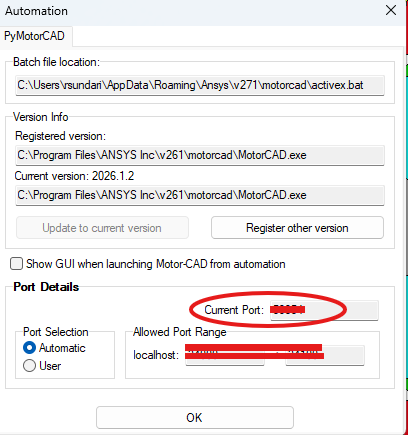
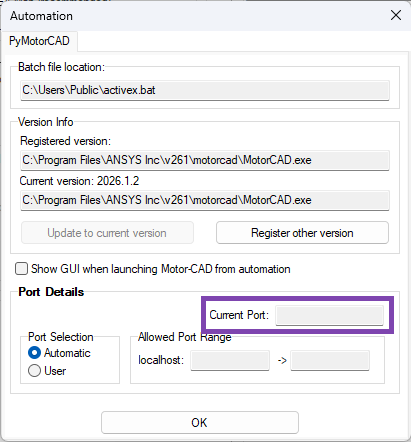
Move port issue details to a new section in 'troubleshooting' update image.

Changed region(s): [[0.0, 0.0, 1.0, 1.0], [0.0882, 0.508, 0.4118, 0.5379], [0.5, 0.508, 0.5294, 0.5379]]

diff --git a/doc/source/user_guide/troubleshooting.rst b/doc/source/user_guide/troubleshooting.rst
@@ -64,6 +64,106 @@ Check the registration form to see which version is registered.
 .. image:: /_static/troubleshooting_automation_dropdown.png
     :width: 600
 
+
+Port connection issues
+----------------------
+
+When using Python scripts in Motor-CAD either as standalone applications or as part of an adaptive
+template, you may encounter a connection error:
+
+.. code-block:: text
+
+    Failed to connect to Motor-CAD instance: port=<port number>
+
+.. image:: /_static/issue.png
+    :width: 400
+This issue typically arises due to organizational IT security settings that prevent the RPC (Remote
+Procedure Call) client from connecting to the Motor-CAD instance.
+
+Below are several troubleshooting measures you can apply to resolve this issue.
+
+Solution 1: Configure RPC client settings
+~~~~~~~~~~~~~~~~~~~~~~~~~~~~~~~~~~~~~~~~~
+
+Add the following import statements and configuration at the beginning of your Python script:
+
+.. code:: python
+
+    from ansys.motorcad.core.rpc_client_core import TRY_RESOLVE_LOCALHOST, SERVER_IP
+
+    TRY_RESOLVE_LOCALHOST = False
+    SERVER_IP = "http://127.0.0.1"
+
+This disables localhost resolution attempts and explicitly sets the server connection to the local machine,
+which can help bypass certain network security restrictions.
+
+
+Solution 2: Run Motor-CAD as Administrator
+~~~~~~~~~~~~~~~~~~~~~~~~~~~~~~~~~~~~~~~~~~
+
+Motor-CAD may require elevated privileges to establish the RPC connection:
+
+1. Locate the Motor-CAD executable file
+2. Right-click on the executable
+3. Select "Run as administrator"
+
+
+This grants Motor-CAD the necessary permissions to communicate with the Python script.
+
+
+Solution 3: Disable Automatic Proxy Setup
+~~~~~~~~~~~~~~~~~~~~~~~~~~~~~~~~~~~~~~~~~
+
+Proxy settings configured at the system level may interfere with the RPC connection:
+
+1. Open **Settings** and navigate to **Network & Internet**
+2. Locate **Proxy settings**
+3. Turn off **Automatic proxy setup**
+
+This prevents the system from automatically routing the localhost connection through a proxy server.
+
+
+Solution 4: Test the RPC Connection
+~~~~~~~~~~~~~~~~~~~~~~~~~~~~~~~~~~~
+
+Verify that the RPC connection is working by testing it directly:
+
+1. Open a web browser
+2. Navigate to: ``localhost:<port_number>/jsonrpc``
+
+   Where ``<port_number>`` is the port number listed under **Defaults > Automation** in Motor-CAD
+
+.. image:: /_static/automation.png
+    :width: 400
+3. You should see output similar to the following, indicating the connection is working:
+
+.. image:: /_static/json.png
+    :width: 600
+
+If you see this output, the issue is on the Python script side. If not, continue to Solution 5.
+
+
+Contact Support with Diagnostics
+~~~~~~~~~~~~~~~~~~~~~~~~~~~~~~~~
+
+If the issue persists after trying the above solutions:
+
+1. Collect the output from the browser test in Solution 4
+2. Locate Motor-CAD log files at:
+
+   .. code-block:: text
+
+       C:\Users\<your_PC_username>\AppData\Roaming\Ansys\v261\MotorCAD\RPCLogs
+
+   Replace ``<your_PC_username>`` with your actual Windows username.
+
+3. Contact Motor-CAD support and provide:
+   - The browser test output from Solution 4
+   - The log files from the RPCLogs directory
+   - A description of the troubleshooting steps you have already attempted
+
+The log files will help the support team identify the root cause of the connection issue.
+
 Ansys developer ecosystem resources
 ^^^^^^^^^^^^^^^^^^^^^^^^^^^^^^^^^^^
 
